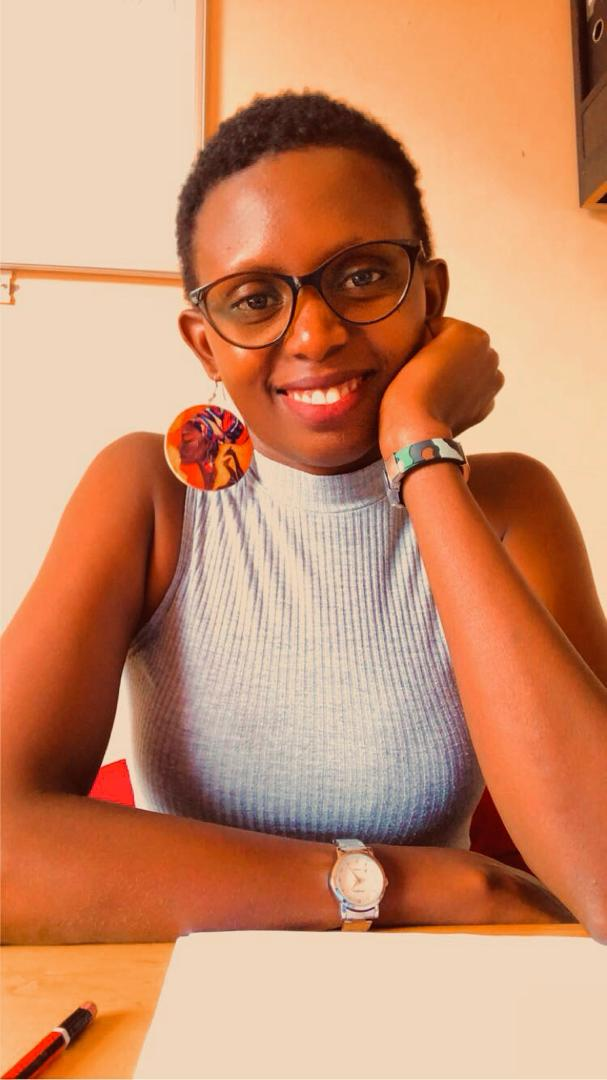
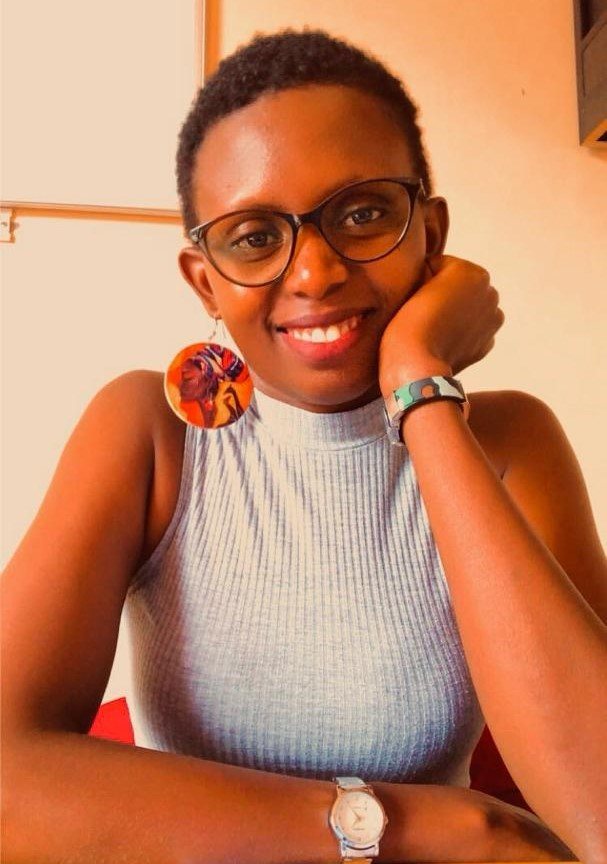
tean fix

diff --git a/beauty/src/pages/services.tsx b/beauty/src/pages/services.tsx
@@ -1,7 +1,8 @@
 import React from 'react';
 import { 
   Hospital, BatteryCharging, ShoppingCart, ArrowRight, 
-  Fingerprint, ScanFace, Cctv, ShieldCheck
+  Fingerprint, ScanFace, Cctv, ShieldCheck, 
+  Sun, Droplets, HardHat, ZapOff, Building2 // Added missing icons here
 } from 'lucide-react';
 import { useNavigate } from 'react-router-dom';
 import { Helmet } from 'react-helmet-async';
@@ -26,9 +27,9 @@ const Services = () => {
       desc: "Professional auditing and maintenance to ensure efficiency and safety compliance." 
     },
     { 
-      title: "Hospital & Solar Systems", 
-      icon: <Hospital />, 
-      desc: "Critical solar power and water heating solutions for healthcare and commercial use." 
+      title: "Solar Systems Installation & Maintenance", 
+      icon: <Sun />, 
+      desc: "Critical solar power and water heating solutions for healthcare, commercial, and residential use." 
     },
     { 
       title: "UPS & Backup Systems", 
@@ -38,13 +39,33 @@ const Services = () => {
     { 
       title: "Industrial Electrical Supply", 
       icon: <ShoppingCart />, 
-      desc: "Sourcing and supply of high-grade electrical equipment and evaluated materials." 
+      desc: "Sourcing and supply of high-grade electrical equipment and evaluated materials for large-scale projects." 
     },
     { 
       title: "Security IT Applications", 
       icon: <ScanFace />, 
-      desc: "Integrated IT security software and hardware for modern facility management." 
+      desc: "Integrated IT security software and hardware for modern facility management and data protection." 
     },
+    { 
+      title: "Drilling Water Technology", 
+      icon: <Droplets />, 
+      desc: "Specialized borehole drilling and water management systems using modern engineering techniques." 
+    },
+    { 
+      title: "Construction & Design", 
+      icon: <HardHat />, 
+      desc: "End-to-end structural design and construction management for modern civil infrastructure." 
+    },
+    { 
+      title: "Electrical Safety Audit", 
+      icon: <ZapOff />, 
+      desc: "Comprehensive risk assessment and safety protocols to prevent electrical hazards and fires." 
+    },
+    { 
+      title: "Building Management Services", 
+      icon: <Building2 />, 
+      desc: "Smart automation and maintenance services to optimize building efficiency and comfort." 
+    }
   ];
 
   return (
@@ -97,7 +118,7 @@ const Services = () => {
           </div>
         </div>
 
-        {/* Process Section - High Contrast "Dark Mode" Section */}
+        {/* Process Section */}
         <div className="bg-gray-950 text-white py-24 px-6 border-t border-white/5">
           <div className="max-w-7xl mx-auto grid grid-cols-1 lg:grid-cols-2 gap-16 items-center">
             <div>
@@ -131,8 +152,8 @@ const Services = () => {
               <div className="absolute -inset-4 bg-amber-500/20 rounded-[3rem] blur-2xl group-hover:bg-amber-500/30 transition-all opacity-50" />
               <div className="relative rounded-[2.5rem] overflow-hidden shadow-2xl border border-white/10 aspect-video lg:aspect-square">
                  <img 
-                   src="https://images.unsplash.com/photo-1557597774-9d273605dfa9?auto=format&fit=crop&q=80&w=1000" 
-                   alt="Security System Installation" 
+                   src="https://images.unsplash.com/photo-1581092160562-40aa08e78837?auto=format&fit=crop&q=80&w=1000" 
+                   alt="Precision Engineering" 
                    className="w-full h-full object-cover group-hover:scale-110 transition-transform duration-700"
                  />
               </div>

diff --git a/beauty/src/pages/projects.tsx b/beauty/src/pages/projects.tsx
@@ -1,7 +1,8 @@
 import { useRef, useState } from 'react';
 import { Play, MapPin, ChevronLeft, ChevronRight, ExternalLink, ShieldCheck, Lock } from 'lucide-react';
 import { Helmet } from 'react-helmet-async';
-
+import { caseStudies } from '../components/data/caseStudiesData';
+import {videos} from '../components/data/videos';
 
 interface ProjectImage {
   url: string;
@@ -94,39 +95,9 @@ const CaseStudyGallery = ({ images, title }: { images: ProjectImage[], title: st
 const Projects = () => {
   const scrollRef = useRef<HTMLDivElement>(null);
 
-  const videos = [
-    { id: 1, title: "Biometric Access Control Setup", videoId: "VIDEO_ID_1", location: "Corporate Plaza, Kampala", category: "Security" },
-    { id: 2, title: "Hospital Solar Grid Installation", videoId: "VIDEO_ID_2", location: "Entebbe Referral", category: "Solar" },
-    { id: 3, title: "High-Definition CCTV Network", videoId: "VIDEO_ID_3", location: "Industrial Area", category: "IT Security" },
-  ];
+  
 
-  // 3. UPDATED CASE STUDIES DATA
-  const caseStudies = [
-    {
-      sector: "Security & IT",
-      title: "Advanced surveilance Biometric Integration ",
-      desc: "Deployment of surveilance cameras and multi-modal facial recognition and biometric entry systems for homes, businesses areas and corporate headquarters.",
-      icon: <Lock size={20} />,
-      images: [
-        { url: "/images/security/cameraOnFence.jpeg", caption: "Camera on the fence" },
-        { url: "/images/security/smartLock.jpeg", caption: "smart authentication device" },
-        { url: "/images/security/intalledCameraFeed.jpeg", caption: "Live camera feed from an installed security camera." },
-        { url: "/images/security/solarPoweredInfraRedSecuriityCamera.jpeg", caption: "Integrated dashboard for real-time traffic logs." }
-      ]
-    },
-    {
-      sector: "Solar Power",
-      title: "Solar System Installation and Maintenance",
-      desc: "Designing and installation of efficient solar systems using high quality materials guaranteed to meet your needs. We also offer solar system maintenance and repair services",
-      icon: <ShieldCheck size={20} />,
-      images: [
-        { url: "/images/solar/roofSolarInstallation1.jpeg", caption: "Rooftop photovoltaic array installation for maximum yield." },
-        { url: "/images/solar/roofSolarInstallation2.jpeg", caption: "Rooftop solar solar panel installation." },
-        { url: "/images/solar/roofSolarInstallation3.jpeg", caption: "Rooftop solar solar panel installation." },
-        { url: "/images/solar/solarStreetLights.jpeg", caption: "solar powered street light installation." }
-      ]
-    }
-  ];
+  
 
   const scroll = (direction: "left" | "right") => {
     if (scrollRef.current) {

diff --git a/beauty/src/components/data/caseStudiesData.tsx b/beauty/src/components/data/caseStudiesData.tsx
@@ -1,0 +1,28 @@
+import { Lock, ShieldCheck } from 'lucide-react';
+
+export const caseStudies = [
+  {
+    sector: "Security & IT",
+    title: "Advanced Surveillance Biometric Integration",
+    desc: "Deployment of surveillance cameras and multi-modal facial recognition and biometric entry systems for homes, businesses areas and corporate headquarters.",
+    icon: <Lock size={20} />,
+    images: [
+      { url: "/images/security/cameraOnFence.jpeg", caption: "Camera on the fence" },
+      { url: "/images/security/smartLock.jpeg", caption: "Smart authentication device" },
+      { url: "/images/security/intalledCameraFeed.jpeg", caption: "Live camera feed from an installed security camera." },
+      { url: "/images/security/solarPoweredInfraRedSecuriityCamera.jpeg", caption: "Integrated dashboard for real-time traffic logs." }
+    ]
+  },
+  {
+    sector: "Solar Power",
+    title: "Solar System Installation and Maintenance",
+    desc: "Designing and installation of efficient solar systems using high quality materials guaranteed to meet your needs. We also offer solar system maintenance and repair services",
+    icon: <ShieldCheck size={20} />,
+    images: [
+      { url: "/images/solar/roofSolarInstallation1.jpeg", caption: "Rooftop photovoltaic array installation for maximum yield." },
+      { url: "/images/solar/roofSolarInstallation2.jpeg", caption: "Rooftop solar solar panel installation." },
+      { url: "/images/solar/roofSolarInstallation3.jpeg", caption: "Rooftop solar solar panel installation." },
+      { url: "/images/solar/solarStreetLights.jpeg", caption: "Solar powered street light installation." }
+    ]
+  }
+];

diff --git a/beauty/src/pages/teams.tsx b/beauty/src/pages/teams.tsx
@@ -43,7 +43,7 @@ const Teams = () => {
       name: "Batwala Julius Lukwitira", 
       role: "Accountant Officer", 
       category: "Administration",
-      image: "/images/employess/logo.jpg" 
+      image: "/images/employess/BATWALA JULIUS LUKWITIRA.jpeg" 
     },
     { 
       name: "Kizza Edwin", 
@@ -106,7 +106,7 @@ const Teams = () => {
                   <img 
                     src={member.image} 
                     alt={member.name}
-                    className="w-full h-full object-cover transition-transform duration-700 group-hover:scale-110" 
+                    className="w-full h-full object-fill transition-transform duration-700 group-hover:scale-110" 
                   />
                   
                   {/* Subtle Blueprint Overlay (Still kept for technical aesthetic) */}

diff --git a/beauty/src/components/data/videos.tsx b/beauty/src/components/data/videos.tsx
@@ -1,0 +1,7 @@
+
+
+export const videos = [
+    { id: 1, title: "Biometric Access Control Setup", videoId: "VIDEO_ID_1", location: "Corporate Plaza, Kampala", category: "Security" },
+    { id: 2, title: "Hospital Solar Grid Installation", videoId: "VIDEO_ID_2", location: "Entebbe Referral", category: "Solar" },
+    { id: 3, title: "High-Definition CCTV Network", videoId: "VIDEO_ID_3", location: "Industrial Area", category: "IT Security" },
+  ];
